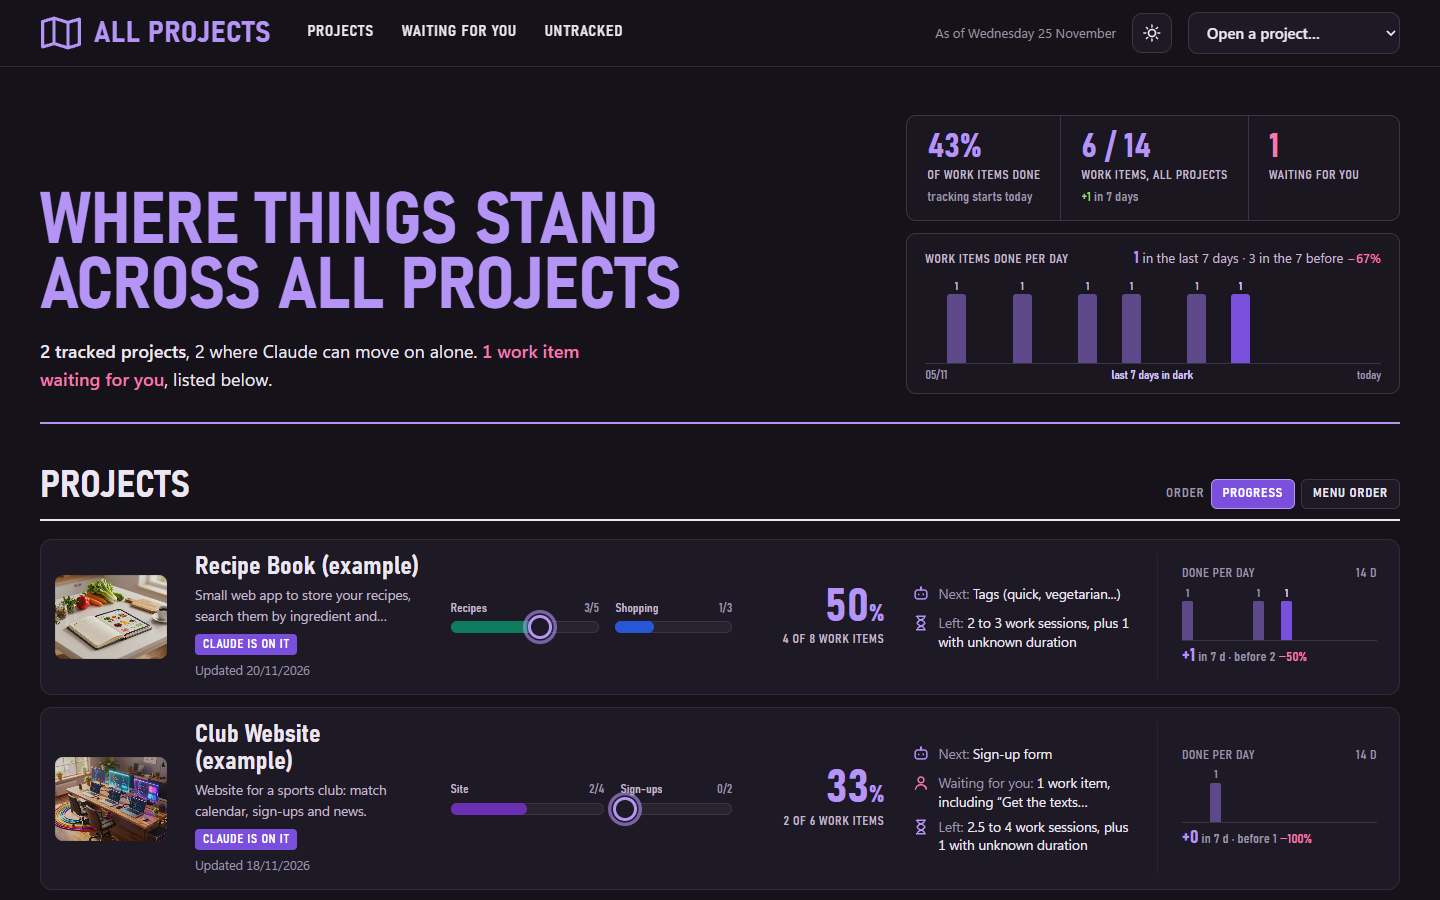
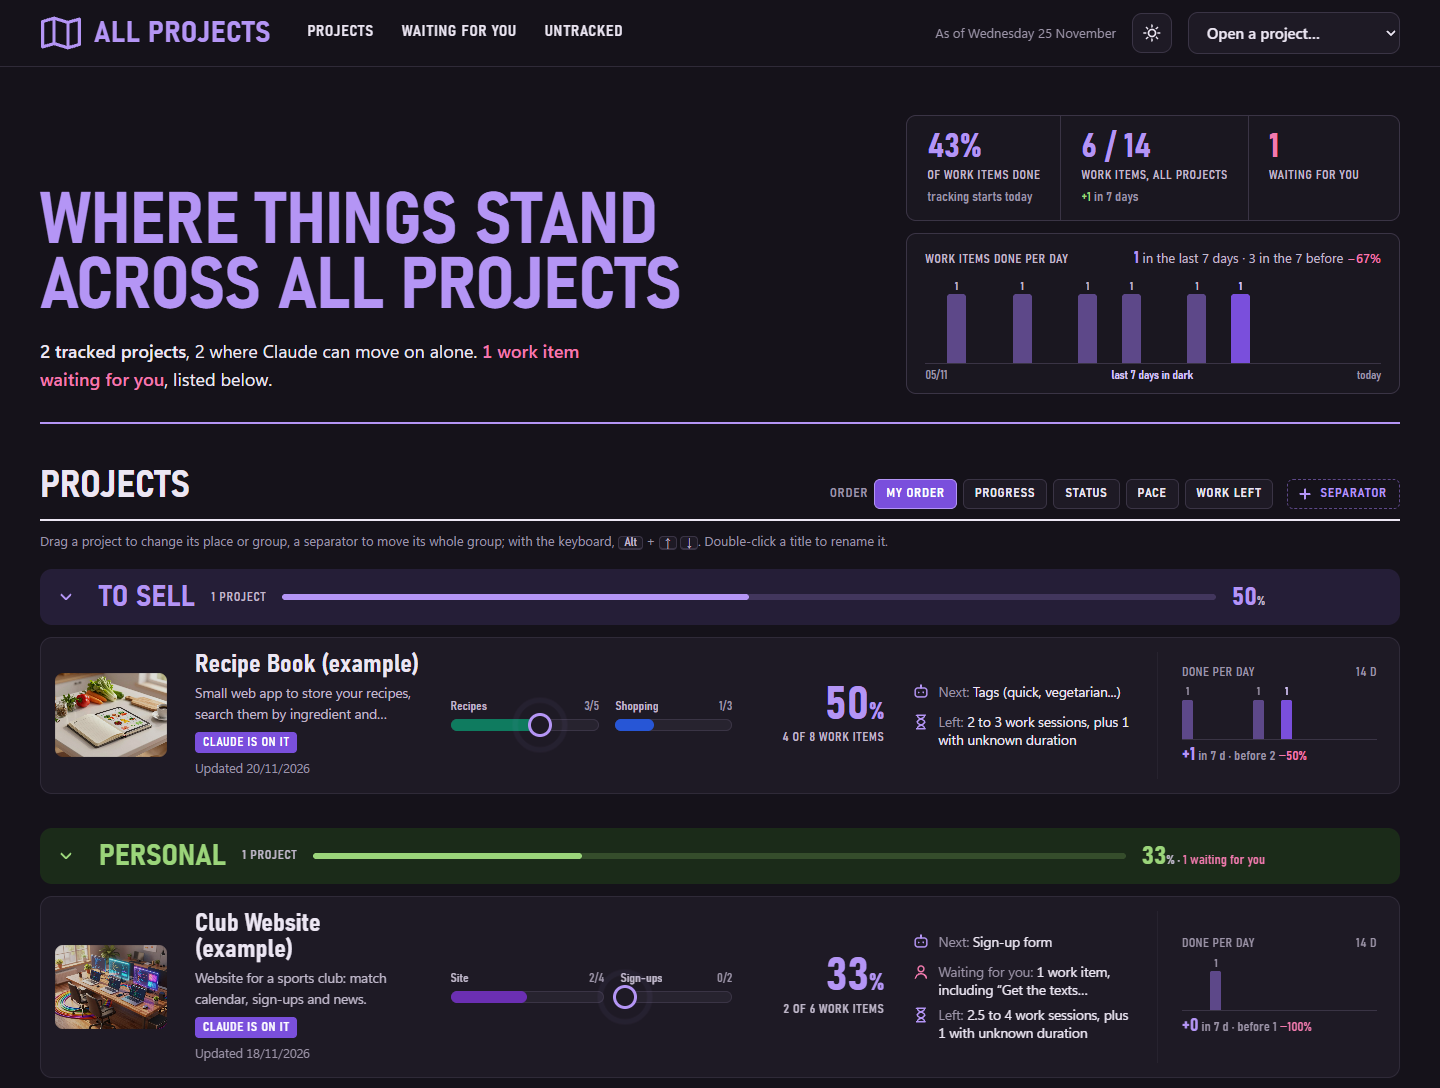
README: new overview screenshot with the five orders and two named groups

diff --git a/README.md b/README.md
@@ -10,7 +10,7 @@ you only look.
 - **`overview.html`, all projects on one page.** Percentage of work items done, status, next step, what is waiting for
   you, and the pace of items completed per day. You arrange the list by hand and split it into your own groups.
 
-![The overview: totals across projects, items done per day, and one card per project with its background image](docs/overview.png)
+![The overview: totals across projects, items done per day, and the project cards arranged in two named groups, "To sell" and "Personal"](docs/overview.png)
 
 The pages open by double-click, with no server, no installation and no account, and send nothing over the Internet.
 Light or dark mode through the moon / sun button at the top.
